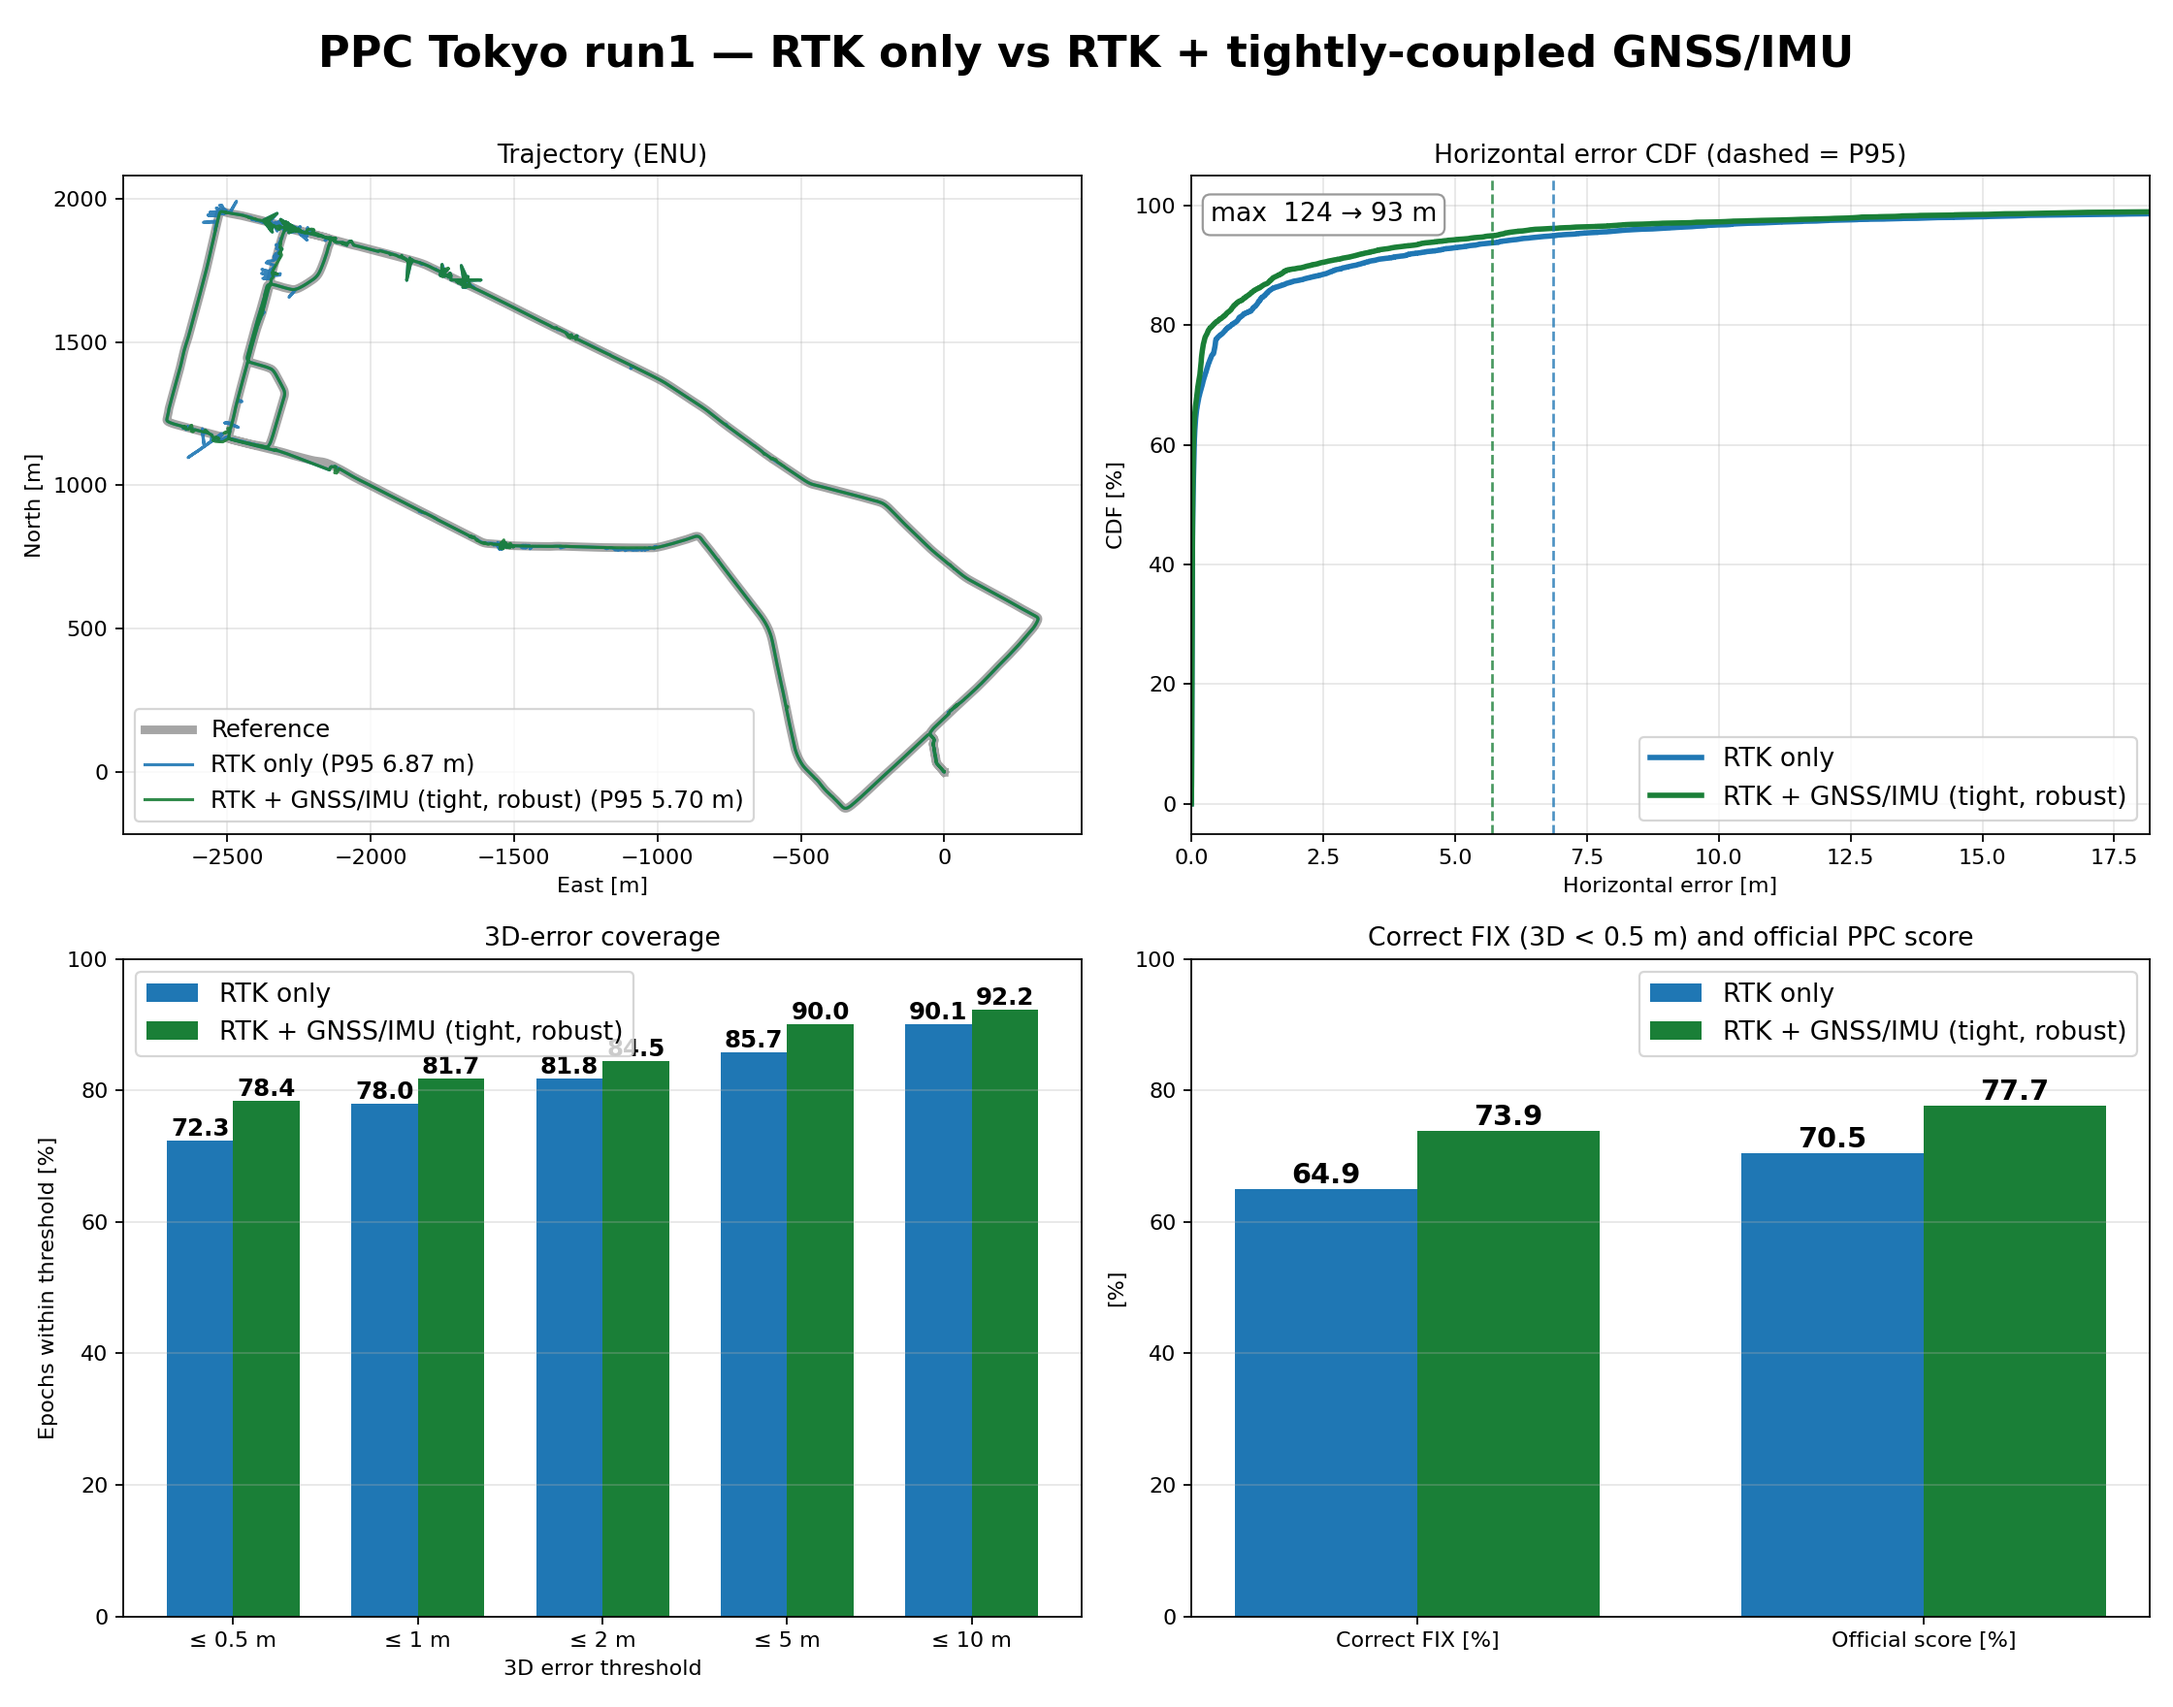
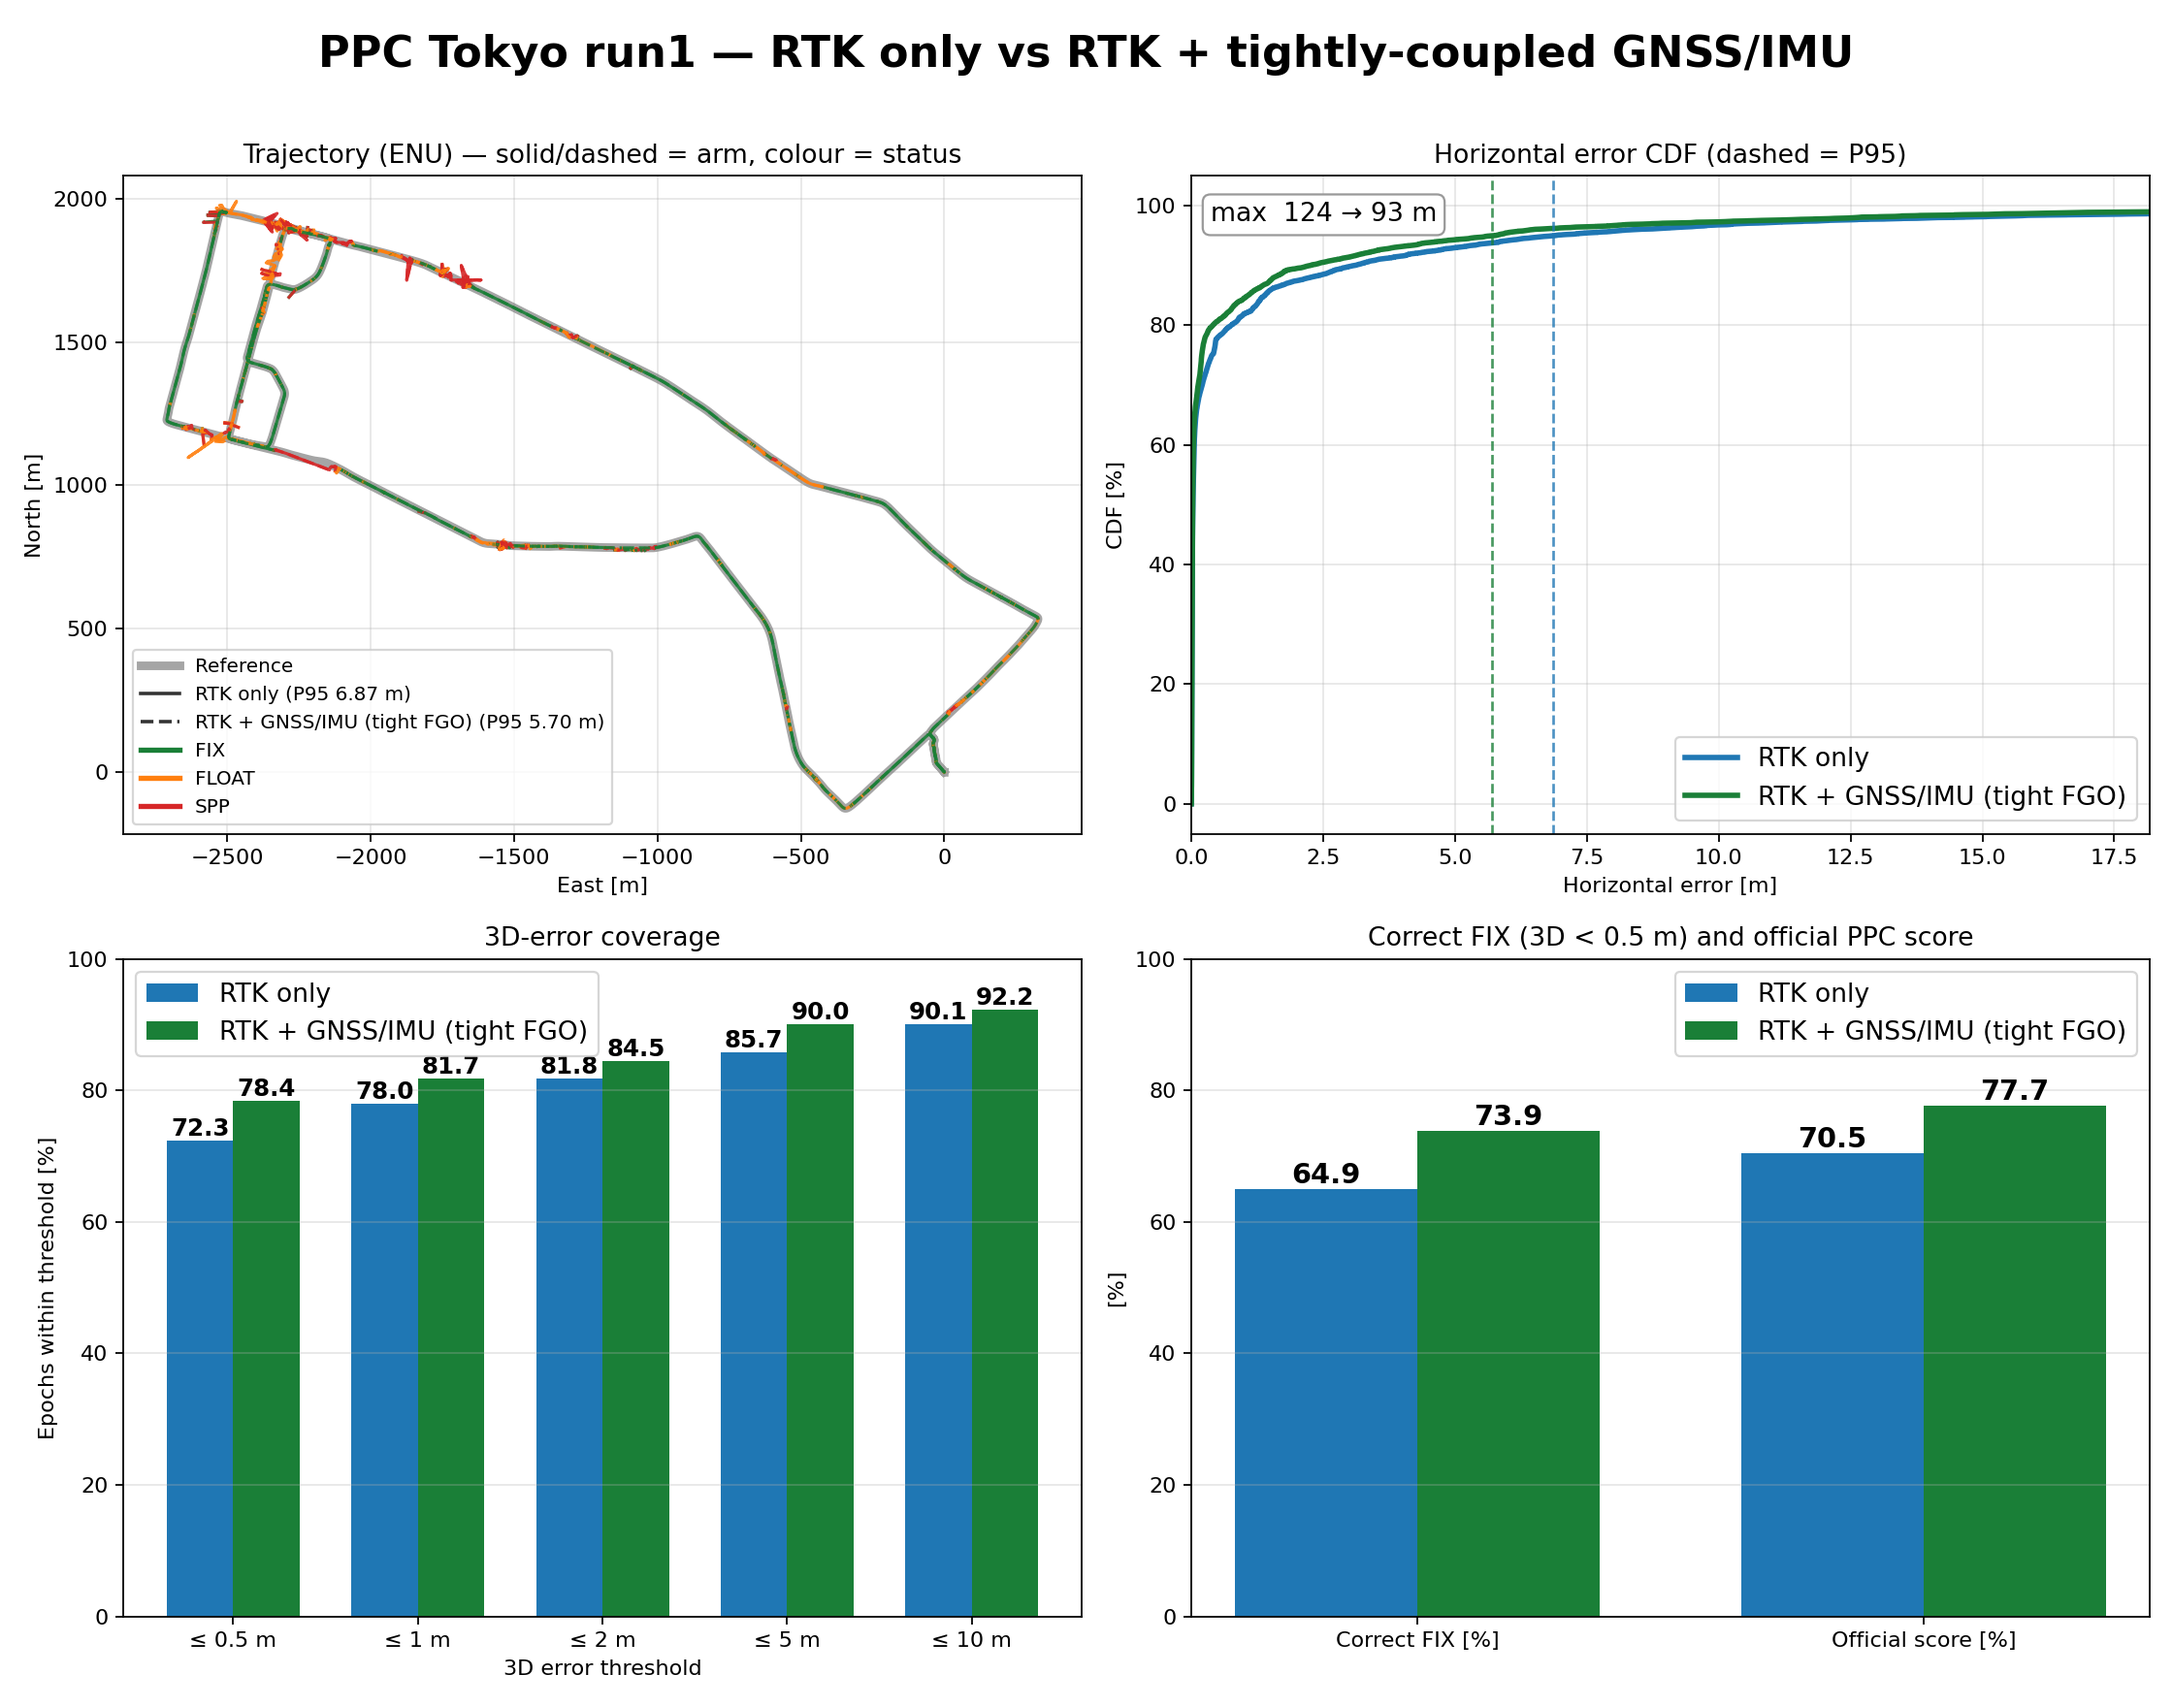
feat(plot): colour PPC trajectories by fix/float status
Draw both PPC figures with the trajectory coloured by per-epoch status
(green FIX, orange FLOAT, purple DGPS, red SPP, grey unknown) and the
line style carrying the arm identity, so FIX/FLOAT coverage is visible.
The FGO submission rows (no status field) now use the grey unknown class
instead of being mislabelled FIX. Legends list the status colours.

diff --git a/scripts/plot_ppc_gnss_vs_fgo.py b/scripts/plot_ppc_gnss_vs_fgo.py
@@ -26,6 +26,7 @@ import matplotlib
 
 matplotlib.use("Agg")
 import matplotlib.pyplot as plt  # noqa: E402
+from matplotlib.lines import Line2D  # noqa: E402
 
 SCRIPTS_DIR = Path(__file__).resolve().parent
 ROOT_DIR = SCRIPTS_DIR.parent
@@ -38,6 +39,41 @@ GNSS_COLOR = "#1f77b4"
 FUSION_COLOR = "#1a7f37"
 EXTRA_COLOR = "#d62728"
 REF_COLOR = "#555555"
+ARM_LINESTYLES = ["-", "--", ":"]
+
+STATUS_COLORS = {4: "#1a7f37", 3: "#ff7f0e", 2: "#9467bd", 1: "#d62728",
+                 0: "#999999"}
+STATUS_NAMES = {4: "FIX", 3: "FLOAT", 2: "DGPS", 1: "SPP", 0: "status n/a"}
+
+
+def plot_status_track(ax, xy, statuses, linestyle="-", lw=1.5, alpha=0.9,
+                      zorder=3):
+    """Draw a trajectory with line segments coloured by per-epoch status."""
+    n = len(xy)
+    if n == 0:
+        return
+    i = 0
+    while i < n:
+        j = i
+        while j + 1 < n and statuses[j + 1] == statuses[i]:
+            j += 1
+        end = min(j + 1, n - 1)
+        seg = xy[i:end + 1]
+        if seg.shape[0] >= 2:
+            ax.plot(seg[:, 0], seg[:, 1],
+                    color=STATUS_COLORS.get(statuses[i], "#999999"),
+                    ls=linestyle, lw=lw, alpha=alpha, zorder=zorder)
+        i = j + 1
+
+
+def status_legend_handles(epochs_list, arm_handles):
+    present = {e.status for epochs in epochs_list for e in epochs}
+    handles = list(arm_handles)
+    for code in (4, 3, 2, 1, 0):
+        if code in present:
+            handles.append(Line2D([0], [0], color=STATUS_COLORS[code], lw=2.4,
+                                  label=STATUS_NAMES[code]))
+    return handles
 TILE_URL = "https://tile.openstreetmap.org/{z}/{x}/{y}.png"
 USER_AGENT = "gnssplusplus-library/1.0 (PPC research figure)"
 GPS_TO_UNIX_OFFSET_S = 315964800.0  # 1980-01-06 - 1970-01-01
@@ -66,7 +102,7 @@ def read_submission_lat_lon(path: Path) -> list[comparison.SolutionEpoch]:
             week, tow = unix_millis_to_week_tow(unix_millis)
             ecef = comparison.llh_to_ecef(lat, lon, 0.0)
             rows.append(comparison.SolutionEpoch(
-                week, tow, lat, lon, 0.0, ecef, 4, 0))
+                week, tow, lat, lon, 0.0, ecef, 0, 0))
     return rows
 
 
@@ -215,12 +251,15 @@ def main() -> int:
 
     all_epochs = [reference] + [arm["epochs"] for arm in arms]
     if args.no_osm:
-        for arm in arms:
-            ax_map.plot([e.lon_deg for e in arm["epochs"]],
-                        [e.lat_deg for e in arm["epochs"]],
-                        color=arm["color"], lw=1.5, alpha=0.9, label=arm["label"])
         ax_map.plot([e.lon_deg for e in reference], [e.lat_deg for e in reference],
                     color=REF_COLOR, lw=2.0, alpha=0.9, label="Reference")
+        for idx, arm in enumerate(arms):
+            plot_status_track(
+                ax_map,
+                np.column_stack([[e.lon_deg for e in arm["epochs"]],
+                                 [e.lat_deg for e in arm["epochs"]]]),
+                [e.status for e in arm["epochs"]],
+                linestyle=ARM_LINESTYLES[idx % len(ARM_LINESTYLES)], lw=1.5)
     else:
         lat = np.array([e.lat_deg for epochs in all_epochs for e in epochs])
         lon = np.array([e.lon_deg for epochs in all_epochs for e in epochs])
@@ -236,11 +275,13 @@ def main() -> int:
         ax_map.imshow(np.asarray(basemap), extent=[ox, ox + w, oy + h, oy])
         xs, ys = to_px([e.lat_deg for e in reference], [e.lon_deg for e in reference], zoom)
         ax_map.plot(xs, ys, color=REF_COLOR, lw=4.0, alpha=0.9, label="Reference", zorder=3)
-        for arm in arms:
+        for idx, arm in enumerate(arms):
             xs, ys = to_px([e.lat_deg for e in arm["epochs"]],
                            [e.lon_deg for e in arm["epochs"]], zoom)
-            ax_map.plot(xs, ys, color=arm["color"], lw=1.8, alpha=0.9,
-                        label=arm["label"], zorder=3)
+            plot_status_track(ax_map, np.column_stack([xs, ys]),
+                              [e.status for e in arm["epochs"]],
+                              linestyle=ARM_LINESTYLES[idx % len(ARM_LINESTYLES)],
+                              lw=1.8)
         ax_map.set_xlim(ox, ox + w)
         ax_map.set_ylim(oy + h, oy)
         fig.text(0.995, 0.01, "(c) OpenStreetMap contributors", ha="right", va="bottom",
@@ -276,10 +317,14 @@ def main() -> int:
                 rxs, rys = to_px([e.lat_deg for e in reference],
                                  [e.lon_deg for e in reference], izoom)
                 axi.plot(rxs, rys, color=REF_COLOR, lw=2.5, alpha=0.9, zorder=3)
-                for arm in arms:
+                for idx, arm in enumerate(arms):
                     xs, ys = to_px([e.lat_deg for e in arm["epochs"]],
                                    [e.lon_deg for e in arm["epochs"]], izoom)
-                    axi.plot(xs, ys, color=arm["color"], lw=1.6, alpha=0.9, zorder=3)
+                    plot_status_track(
+                        axi, np.column_stack([xs, ys]),
+                        [e.status for e in arm["epochs"]],
+                        linestyle=ARM_LINESTYLES[idx % len(ARM_LINESTYLES)],
+                        lw=1.6)
                 axi.set_xlim(ix, ix + iw)
                 axi.set_ylim(iy + ih, iy)
                 axi.set_aspect("equal")
@@ -292,7 +337,14 @@ def main() -> int:
     ax_map.set_xticks([])
     ax_map.set_yticks([])
     ax_map.set_title(args.title, fontsize=18, fontweight="bold")
-    ax_map.legend(fontsize=12, loc="upper right", framealpha=0.9)
+    arm_handles = [Line2D([0], [0], color=REF_COLOR, lw=3.5, label="Reference")]
+    for idx, arm in enumerate(arms):
+        arm_handles.append(Line2D(
+            [0], [0], color="#333333", lw=1.8,
+            ls=ARM_LINESTYLES[idx % len(ARM_LINESTYLES)], label=arm["label"]))
+    ax_map.legend(handles=status_legend_handles([a["epochs"] for a in arms],
+                                                arm_handles),
+                  fontsize=10, loc="upper right", framealpha=0.9)
     table = "\n".join(
         f"{arm['label'][:18]:18s} P50 {arm['stats']['p50_m']:.2f}"
         f"  P95 {arm['stats']['p95_m']:.2f}  max {arm['stats']['max_m']:.1f} m"

diff --git a/scripts/plot_ppc_rtk_vs_imu_fusion.py b/scripts/plot_ppc_rtk_vs_imu_fusion.py
@@ -25,6 +25,7 @@ import matplotlib
 
 matplotlib.use("Agg")
 import matplotlib.pyplot as plt  # noqa: E402
+from matplotlib.lines import Line2D  # noqa: E402
 
 SCRIPTS_DIR = Path(__file__).resolve().parent
 ROOT_DIR = SCRIPTS_DIR.parent
@@ -39,6 +40,39 @@ import gnss_ppc_metrics as metrics  # noqa: E402
 RTK_COLOR = "#1f77b4"
 FUSION_COLOR = "#1a7f37"
 REF_COLOR = "#7f7f7f"
+
+STATUS_COLORS = {4: "#1a7f37", 3: "#ff7f0e", 2: "#9467bd", 1: "#d62728"}
+STATUS_NAMES = {4: "FIX", 3: "FLOAT", 2: "DGPS", 1: "SPP"}
+
+
+def plot_status_track(ax, xy, statuses, linestyle="-", lw=1.5, alpha=0.9,
+                      zorder=3):
+    """Draw a trajectory with line segments coloured by per-epoch status."""
+    n = len(xy)
+    if n == 0:
+        return
+    i = 0
+    while i < n:
+        j = i
+        while j + 1 < n and statuses[j + 1] == statuses[i]:
+            j += 1
+        end = min(j + 1, n - 1)
+        seg = xy[i:end + 1]
+        if seg.shape[0] >= 2:
+            ax.plot(seg[:, 0], seg[:, 1],
+                    color=STATUS_COLORS.get(statuses[i], "#999999"),
+                    ls=linestyle, lw=lw, alpha=alpha, zorder=zorder)
+        i = j + 1
+
+
+def status_legend_handles(epochs_list, arm_handles):
+    present = {e.status for epochs in epochs_list for e in epochs}
+    handles = list(arm_handles)
+    for code in (4, 3, 2, 1):
+        if code in present:
+            handles.append(Line2D([0], [0], color=STATUS_COLORS[code], lw=2.4,
+                                  label=STATUS_NAMES[code]))
+    return handles
 
 
 def parse_args() -> argparse.Namespace:
@@ -128,16 +162,27 @@ def main() -> int:
     fig, axes = plt.subplots(2, 2, figsize=(14, 11))
     fig.suptitle(args.title, fontsize=20, fontweight="bold")
 
-    # (a) trajectory
+    # (a) trajectory — colour = FIX/FLOAT/SPP, line style = arm
     ax = axes[0, 0]
     ax.plot(ref_enu[:, 0], ref_enu[:, 1], color=REF_COLOR, lw=4, alpha=0.7, label="Reference")
-    ax.plot(rtk_enu[:, 0], rtk_enu[:, 1], color=RTK_COLOR, lw=1.4, alpha=0.9, label=f"{args.rtk_label} (P95 {rtk_m['p95']:.2f} m)")
-    ax.plot(fusion_enu[:, 0], fusion_enu[:, 1], color=FUSION_COLOR, lw=1.4, alpha=0.9, label=f"{args.fusion_label} (P95 {fusion_m['p95']:.2f} m)")
+    plot_status_track(ax, rtk_enu, [e.status for e in rtk["solution"]],
+                      linestyle="-", lw=1.4)
+    plot_status_track(ax, fusion_enu, [e.status for e in fusion["solution"]],
+                      linestyle="--", lw=1.4)
+    arm_handles = [
+        Line2D([0], [0], color=REF_COLOR, lw=4, alpha=0.7, label="Reference"),
+        Line2D([0], [0], color="#333333", lw=1.6, ls="-",
+               label=f"{args.rtk_label} (P95 {rtk_m['p95']:.2f} m)"),
+        Line2D([0], [0], color="#333333", lw=1.6, ls="--",
+               label=f"{args.fusion_label} (P95 {fusion_m['p95']:.2f} m)"),
+    ]
     ax.set_aspect("equal", adjustable="datalim")
     ax.set_xlabel("East [m]")
     ax.set_ylabel("North [m]")
-    ax.set_title("Trajectory (ENU)")
-    ax.legend(fontsize=11, loc="best")
+    ax.set_title("Trajectory (ENU) — solid/dashed = arm, colour = status")
+    ax.legend(handles=status_legend_handles([rtk["solution"], fusion["solution"]],
+                                            arm_handles),
+              fontsize=9, loc="best")
     ax.grid(alpha=0.3)
 
     # (b) CDF

diff --git a/docs/ppc_rtk_vs_gnss_imu_fusion.md b/docs/ppc_rtk_vs_gnss_imu_fusion.md
@@ -2,6 +2,10 @@
 
 ![PPC Tokyo run1 — RTK only vs RTK + tightly-coupled GNSS/IMU](ppc_rtk_vs_gnss_imu_fusion.png)
 
+The trajectory is coloured by per-epoch status (green = FIX, orange =
+FLOAT, red = SPP) with solid = RTK only and dashed = fused, so the panels
+show both where each arm was fixed and how dense the fixes were.
+
 OpenStreetMap overlay: left is the full route, right zooms on the worst
 RTK-only epoch (near Tokyo Station), where RTK-only cuts across the building
 block while the fused track follows the road.
@@ -118,6 +122,11 @@ Related knobs: `--imu-lever-arm X Y Z`, `--imu-no-mounting`,
 (multiplier, default 1), `--imu-no-noise-calibrate`.
 
 ![PPC Tokyo run1 — carrier-phase vs IMU-aided FGO](ppc_fgo_carrier_vs_imu.png)
+
+Trajectory colour is the per-epoch status (green = FIX, orange = FLOAT,
+grey = no status field in the submission CSV) and the line style is the
+arm; here the DD-carrier arm reports FIX throughout while the IMU arms are
+float.
 
 Carrier-phase ambiguity resolution dominates: on Tokyo run1 the code-only
 no-base FGO (P50 3.62 m) is ~2x worse than the carrier FGO (P50 1.66 m),
